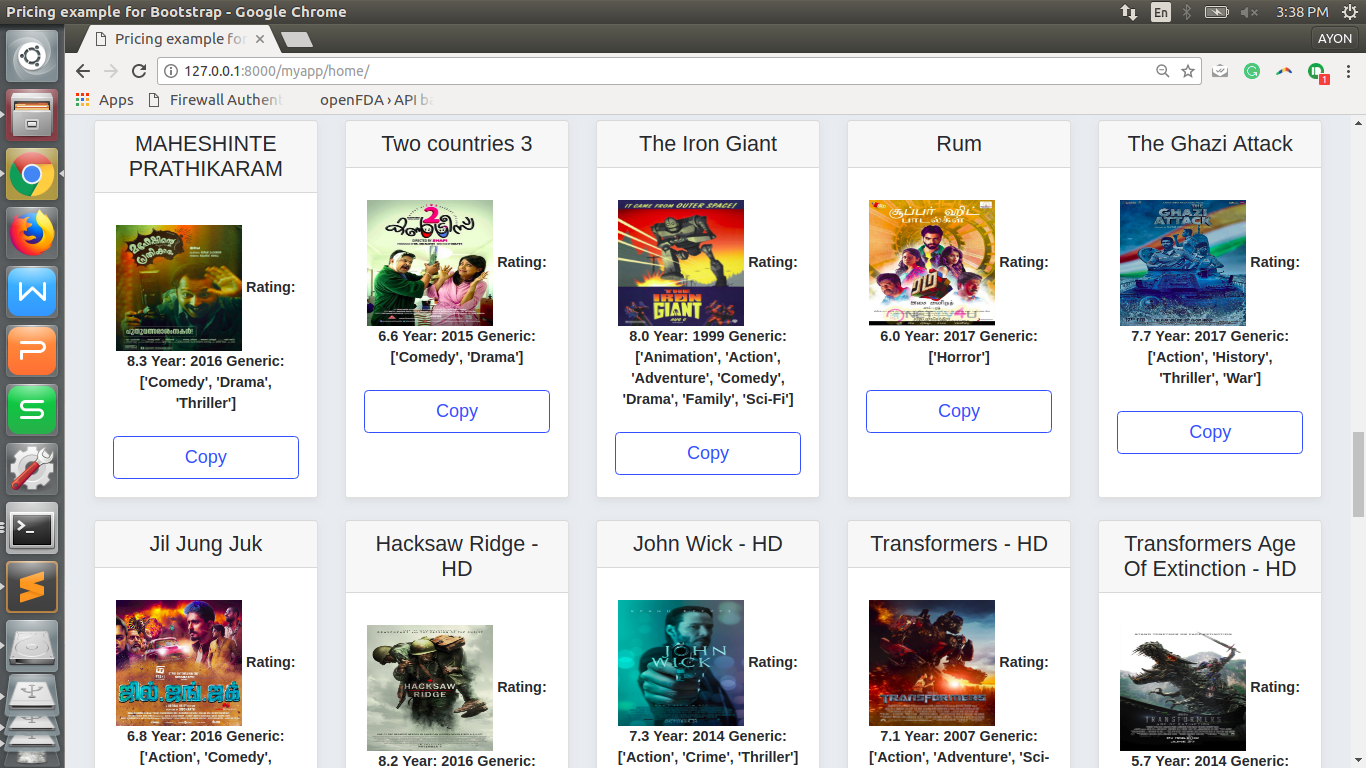
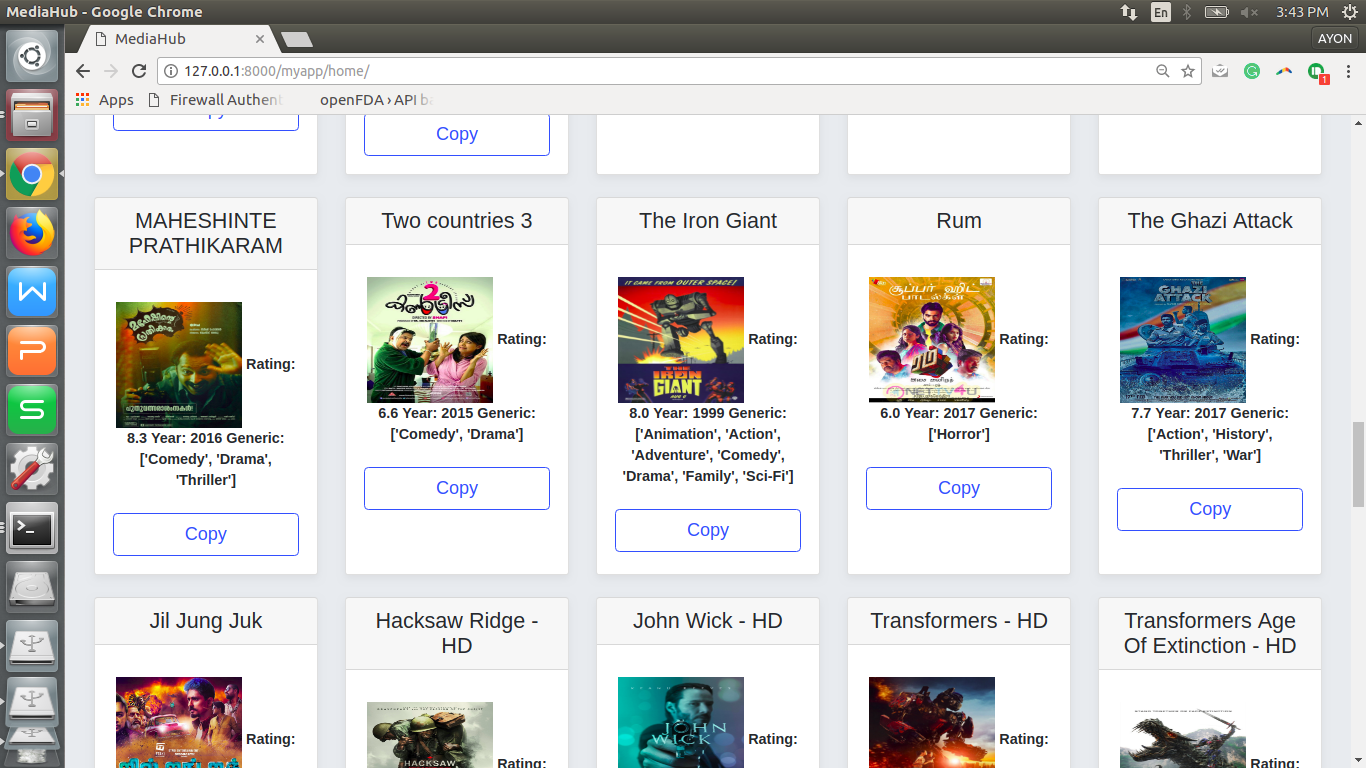
update

diff --git a/hub/myapp/templates/myapp/index.html b/hub/myapp/templates/myapp/index.html
@@ -9,7 +9,7 @@
     <meta name="author" content="">
     <link rel="icon" href="../../../../favicon.ico">
 
-    <title>Pricing example for Bootstrap</title>
+    <title>MediaHub</title>
 
     <!-- Bootstrap core CSS -->
     <link rel="stylesheet" type="text/css" href="{% static 'myapp/css/bootstrap.min.css' %}">
